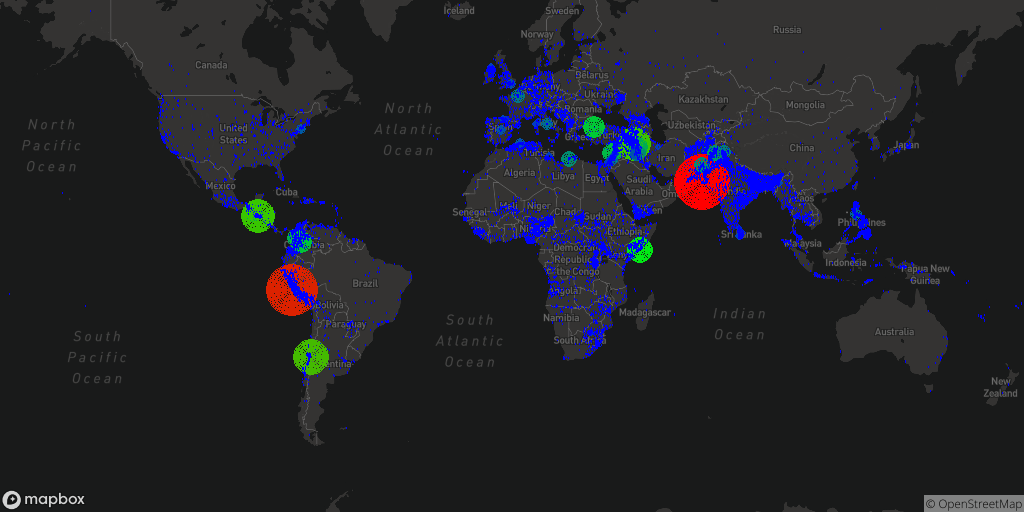
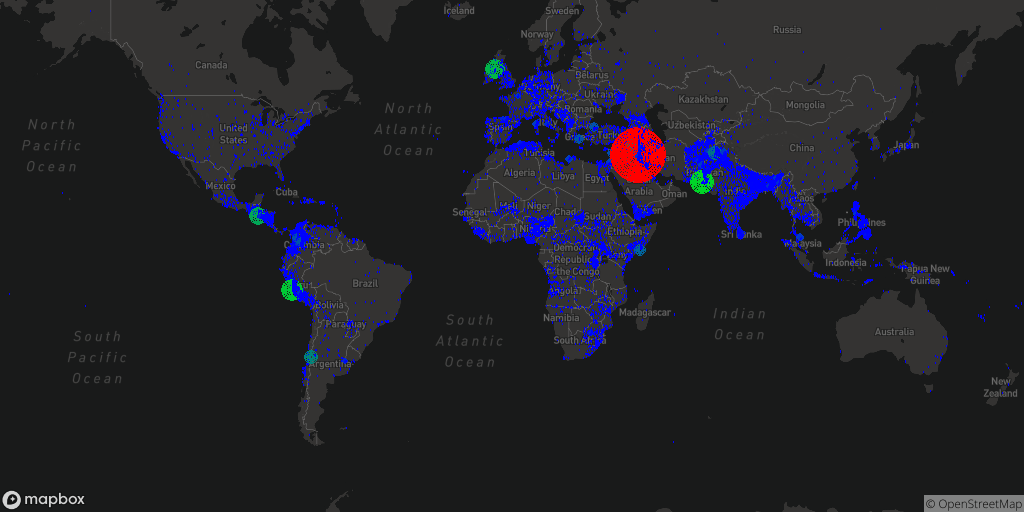
Assignment 6

diff --git a/Assignments/Program_6/heat_map.py b/Assignments/Program_6/heat_map.py
@@ -23,6 +23,7 @@ class heat_map(object):
     """Reads data from json file to create a hate map of terrorism information.
 
     Attributes:
+        create_grid: crates a 2D grid to display data
         read_data: reads the json file to extract coordinates and counts of terror
         get_radius: returns the radius of a circle based on given count
         get_width: returns the width of a circle based on given count
@@ -36,24 +37,25 @@ class heat_map(object):
         """Inits heat_map with width, and height."""
         self.width = width
         self.height = height
-        self.coordinates = {}
+        self.grid=[]
         self.min = None
         self.max = None
         self.count = []
         self.screen = None
         self.bg = None
+        self.create_grid()
+
+    def create_grid(self):
+        """cread a grid to display data"""
+        for x in range ( self.width ):
+            self.grid.append ( [0 for x in range ( self.height )] )
 
     def read_data(self, data):
         """Reads the data and store it in dictionary"""
-        x = []
-        y = []
         for country, lst in data.items():
             for key, val in lst.items():
-                self.coordinates[key] = {'count': val['count'], 'loc': tuple((self.mercX(
-                    val['geometry']['coordinates'][0]), self.mercY(val['geometry']['coordinates'][1])))}
-        for k in self.coordinates.keys():
-            if self.coordinates[k]['count'] not in self.count:
-                self.count.append(self.coordinates[k]['count'])
+                self.count.append(val['count'])
+                self.grid[self.mercX( val['geometry']['coordinates'][0])][self.mercY( val['geometry']['coordinates'][1])] += val['count']
         self.max = max(self.count)
         self.min = min(self.count)
 
@@ -69,6 +71,8 @@ class heat_map(object):
         """returns color based on given count"""
         EPSILON = sys.float_info.epsilon  # smallest possible difference
         minval, maxval = self.min, self.max
+        if count > self.max:
+            count = self.max
         steps = 26
         delta = float(maxval - minval) / steps
         colors = [(0, 0, 255), (0, 255, 0), (255, 0, 0)]  # [BLUE, GREEN, RED]
@@ -92,9 +96,12 @@ class heat_map(object):
         running = True
         while running:
             self.screen.blit(self.bg, (0, 0))
-            for k in self.coordinates.keys():
-                pygame.draw.circle(self.screen, self.get_color(self.coordinates[k]['count']), self.coordinates[k]['loc'], int(
-                    self.get_radius(self.coordinates[k]['count'])), self.get_width(self.coordinates[k]['count']))
+            for i in range ( len ( self.grid ) ):
+                for z in range ( len ( self.grid[i] ) ):
+                    if self.grid[i][z]:
+                        pygame.draw.circle ( self.screen, self.get_color ( self.grid[i][z] ), (int ( i ), int ( z )),
+                                     int ( self.get_radius ( self.grid[i][z] ) ), self.get_width ( self.grid[i][z] ) )
+
             pygame.display.flip()
             pygame.image.save(self.screen, os.path.dirname(
                 __file__) + '/screen_shot.png')
